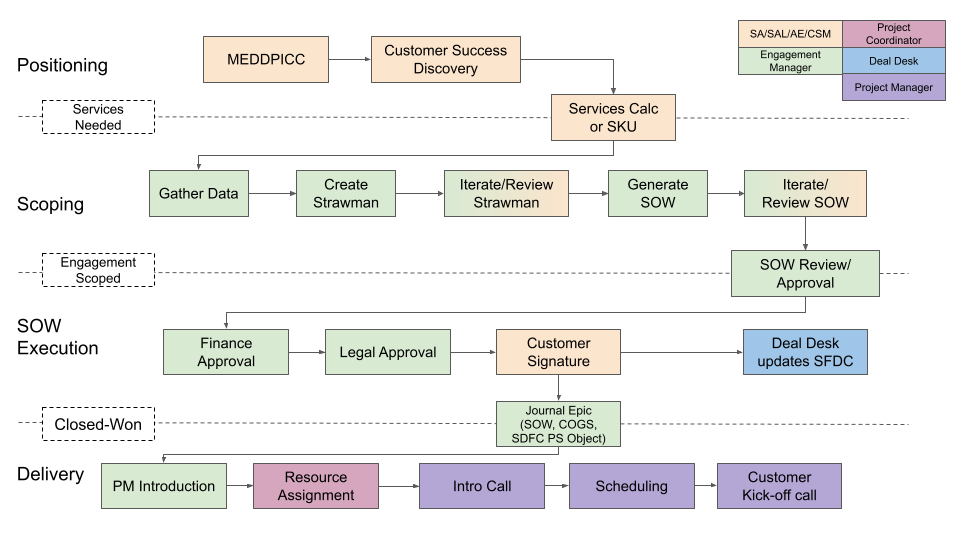
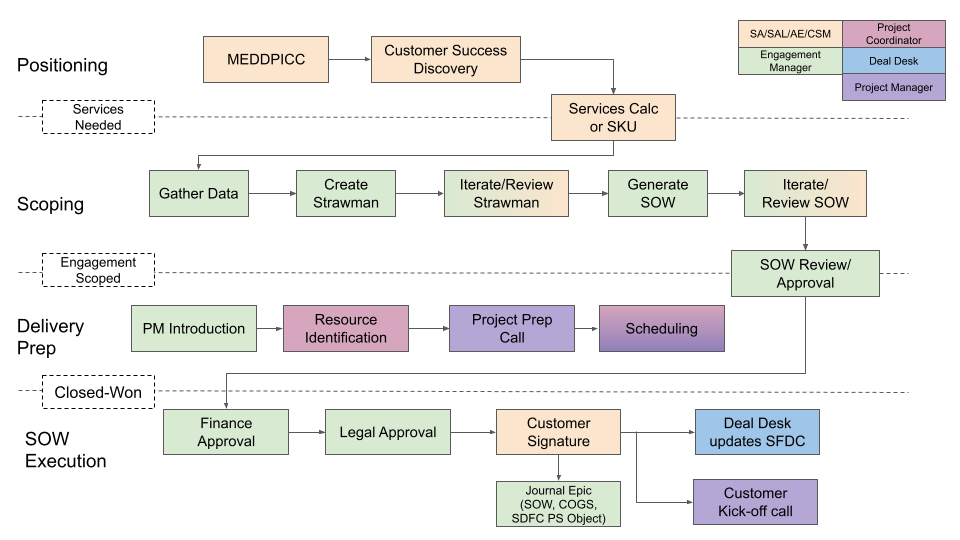
new updated pre-sales png & text

Changed region(s): [[0.0, 0.563, 0.9062, 0.9778], [0.0, 0.5926, 0.0938, 0.6815], [0.0312, 0.7111, 0.1562, 0.7407]]

diff --git a/customer-success/professional-services-engineering/processes/pre-sales-methodology/index.html.md b/customer-success/professional-services-engineering/processes/pre-sales-methodology/index.html.md
@@ -58,19 +58,28 @@ Once the SOW is generated, it is ready for review by the account team. Iteration
 ### SOW Review/Approval
 After one or more rounds of iteration on feedback from the account team, the SOW will be ready for Review and Approval by Sr. Director of Professional Services. The review processes are signaled in the [professional services slack channel](/handbook/customer-success/professional-services-engineering/working-with/#slack) and **at-mention** the GitLab engagement stakeholders.
 
-### Delivery Transition
+## 3. Delivery Prep
 - **DRI**: Project Manager
 - **Supported By**: EM, PM, PSE, TA, Account Team
 
 Once the engagement moves to stage 6, `awaiting signature` in salesforce, the engagement manager schedules an intro meeting between the PM and the customer stakeholder to discuss "how we manage projects at GitLab".  During this call, the PM will also discuss resource assignment, and scheduling details. Simultaneously, the PM will schedule an internal transition meeting with the EM, PM, PSE, TA, and Account Team to review the technical discussions that occurred during the customer scoping meetings.  This is a opportunity for the entire team to discuss and disclose the inner workings and dynamics of the customer project team.
 
+### PM Introduction
+Engagement managers introduce the PS Project Manager as they are in contract with the customer during the scoping exercise and are perfectly positioned to do so. 
+
+### Resource Identification
+The PS Proejct Coodinator, working closely with the Regional Delivery Manager, will identify the best resource to deliver the project based on skillset, timezone, personality, tenure, and availability.
+
+### Project Prep call
+This is a call between the customer stakeholder and the PS Project Manager to discuss HOW we work.  Where we track project progress, what status report will look like, what the meeting cadence might be, a review of the contract terms that affect how we work such as minimum hours per week, expiration dates, delay language, and most importantly, how to achieve mutual agreement with the customer on a preliminary project schedule, prior to the kick-off call which includes the entire project team. 
+
 Check out the PS Delivery methodology to understand the details around pre-sales handoff to the delivery team, to ensure a successful relationship and productive engagement.
 
-## 3. SOW Execution/Close
-- **DRI**: Engagement Manager
+### 4. SOW Execution/Close
+- **DRI** Engagement Manager
 - **Supported By**: PS Leader, Sr. PSE, SAE/AE, Legal, Finance, Deal Desk
 
-### Finance Approval
+Finance Approval
 The engagement manager can kick off the finance approval process in Salesforce. TODO: Add more details. 
 
 ### Legal Approval
